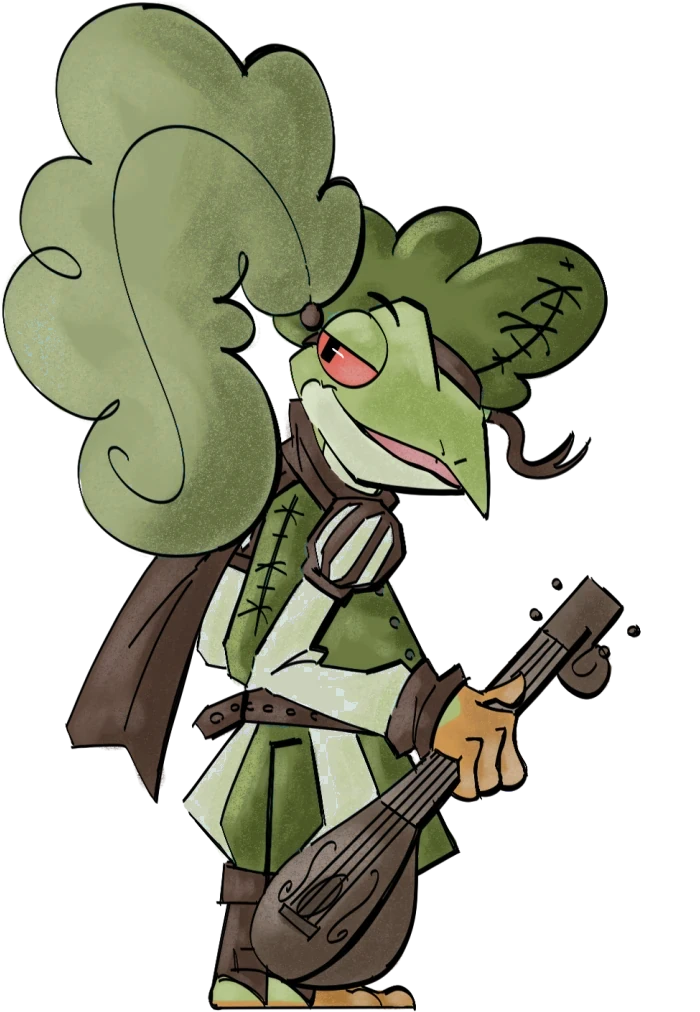
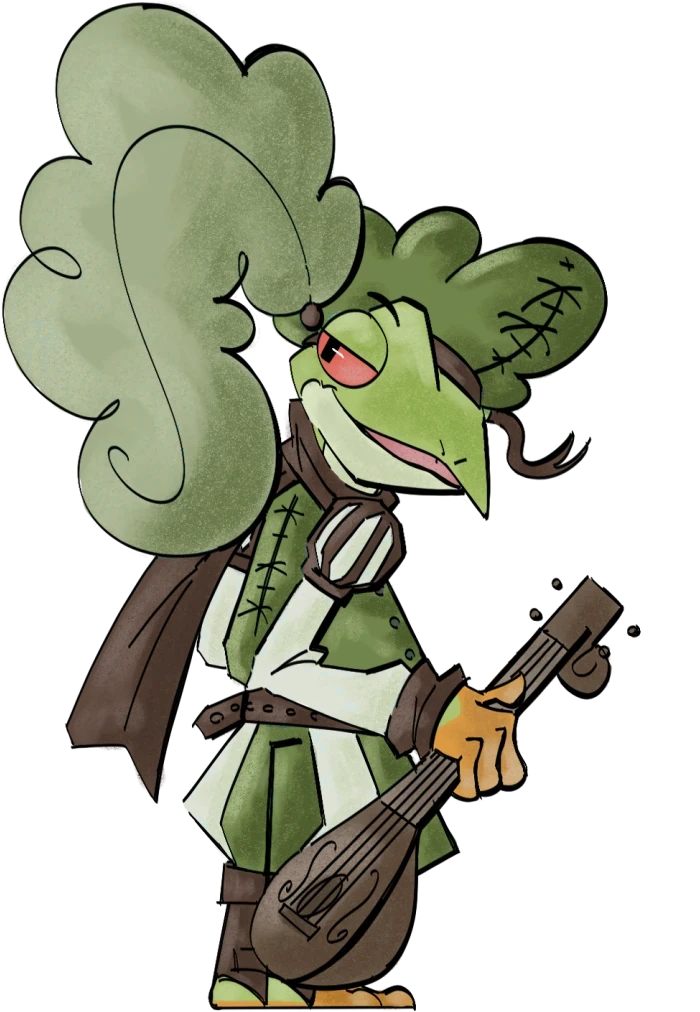
deploy: Tricholome/rootelo@8d2f693d6178d9cb990147af8544155d57b6c2b3

diff --git a/hoot/matches.html b/hoot/matches.html
@@ -11880,7 +11880,7 @@
 						</a>
 					</span>
 				</div>
-				<div class="footer-date">Updated on 2026-11-21 18:46 UTC</div>
+				<div class="footer-date">Updated on 2026-11-21 19:03 UTC</div>
 			</div>
 		</footer>
     </div>

diff --git a/matches.html b/matches.html
@@ -21704,7 +21704,7 @@
 						</a>
 					</span>
 				</div>
-				<div class="footer-date">Updated on 2026-11-21 18:46 UTC</div>
+				<div class="footer-date">Updated on 2026-11-21 19:03 UTC</div>
 			</div>
 		</footer>
     </div>

diff --git a/matches_lh01.html b/matches_lh01.html
@@ -53132,7 +53132,7 @@
 						</a>
 					</span>
 				</div>
-				<div class="footer-date">Updated on 2026-11-21 18:46 UTC</div>
+				<div class="footer-date">Updated on 2026-11-21 19:03 UTC</div>
 			</div>
 		</footer>
     </div>

diff --git a/matches_lh02.html b/matches_lh02.html
@@ -50864,7 +50864,7 @@
 						</a>
 					</span>
 				</div>
-				<div class="footer-date">Updated on 2026-11-21 18:46 UTC</div>
+				<div class="footer-date">Updated on 2026-11-21 19:03 UTC</div>
 			</div>
 		</footer>
     </div>

diff --git a/matches_lh03.html b/matches_lh03.html
@@ -49184,7 +49184,7 @@
 						</a>
 					</span>
 				</div>
-				<div class="footer-date">Updated on 2026-11-21 18:46 UTC</div>
+				<div class="footer-date">Updated on 2026-11-21 19:03 UTC</div>
 			</div>
 		</footer>
     </div>

diff --git a/hoot/index.html b/hoot/index.html
@@ -3559,7 +3559,7 @@
 						</a>
 					</span>
 				</div>
-				<div class="footer-date">Updated on 2026-11-21 18:46 UTC</div>
+				<div class="footer-date">Updated on 2026-11-21 19:03 UTC</div>
 			</div>
 		</footer>
     </div>

diff --git a/index.html b/index.html
@@ -5632,7 +5632,7 @@
 						</a>
 					</span>
 				</div>
-				<div class="footer-date">Updated on 2026-11-21 18:46 UTC</div>
+				<div class="footer-date">Updated on 2026-11-21 19:03 UTC</div>
 			</div>
 		</footer>
     </div>

diff --git a/index_lh01.html b/index_lh01.html
@@ -8796,7 +8796,7 @@
 						</a>
 					</span>
 				</div>
-				<div class="footer-date">Updated on 2026-11-21 18:46 UTC</div>
+				<div class="footer-date">Updated on 2026-11-21 19:03 UTC</div>
 			</div>
 		</footer>
     </div>

diff --git a/index_lh02.html b/index_lh02.html
@@ -8322,7 +8322,7 @@
 						</a>
 					</span>
 				</div>
-				<div class="footer-date">Updated on 2026-11-21 18:46 UTC</div>
+				<div class="footer-date">Updated on 2026-11-21 19:03 UTC</div>
 			</div>
 		</footer>
     </div>

diff --git a/index_lh03.html b/index_lh03.html
@@ -7882,7 +7882,7 @@
 						</a>
 					</span>
 				</div>
-				<div class="footer-date">Updated on 2026-11-21 18:46 UTC</div>
+				<div class="footer-date">Updated on 2026-11-21 19:03 UTC</div>
 			</div>
 		</footer>
     </div>

diff --git a/network.html b/network.html
@@ -1772,7 +1772,7 @@
 						</a>
 					</span>
 				</div>
-				<div class="footer-date">Updated on 2026-11-21 18:46 UTC</div>
+				<div class="footer-date">Updated on 2026-11-21 19:03 UTC</div>
 			</div>
 		</footer>
     </div>

diff --git a/network_lh01.html b/network_lh01.html
@@ -1772,7 +1772,7 @@
 						</a>
 					</span>
 				</div>
-				<div class="footer-date">Updated on 2026-11-21 18:46 UTC</div>
+				<div class="footer-date">Updated on 2026-11-21 19:03 UTC</div>
 			</div>
 		</footer>
     </div>
